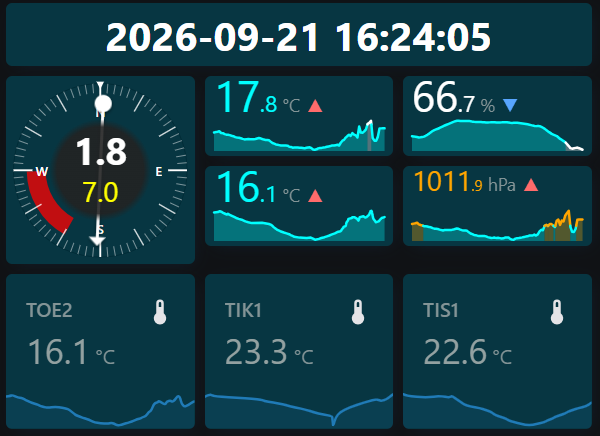
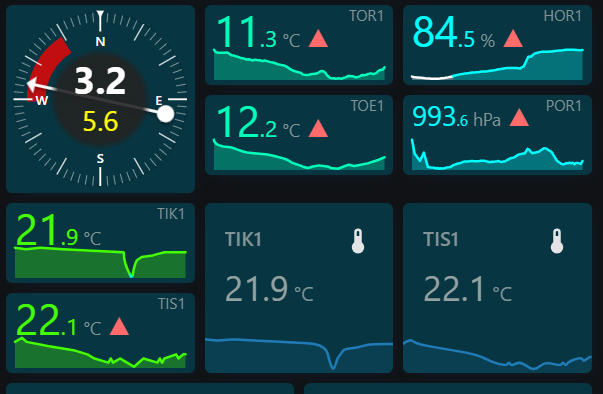
Refresh the dashboard screenshot
Shows the card as it now stands: labels pinned top right, value_format
colouring the value, label and graph together per range, smaller
decimals and trend arrows.

diff --git a/README.md b/README.md
@@ -188,10 +188,11 @@ the graph runs edge to edge.
 
 ![Sensor Ex Cards in a dashboard](screenshot-dashboard.png)
 
-The six sensor cards above show most of what the card can do: the compact row
-along the top uses smaller decimals, trend arrows and `value_format` — note the
-pressure card, whose graph is banded by `graph_color` — while the row along the
-bottom keeps labels and icons with a plain graph.
+The sensor cards above show most of what the card can do. The compact ones use
+smaller decimals, trend arrows, labels pinned to the top right, and
+`value_format` rules colouring the value, the label and the graph together per
+range. The two at the bottom right keep the plainer look: a left label with an
+icon and an unbanded graph.
 
 ### Configuration
 
